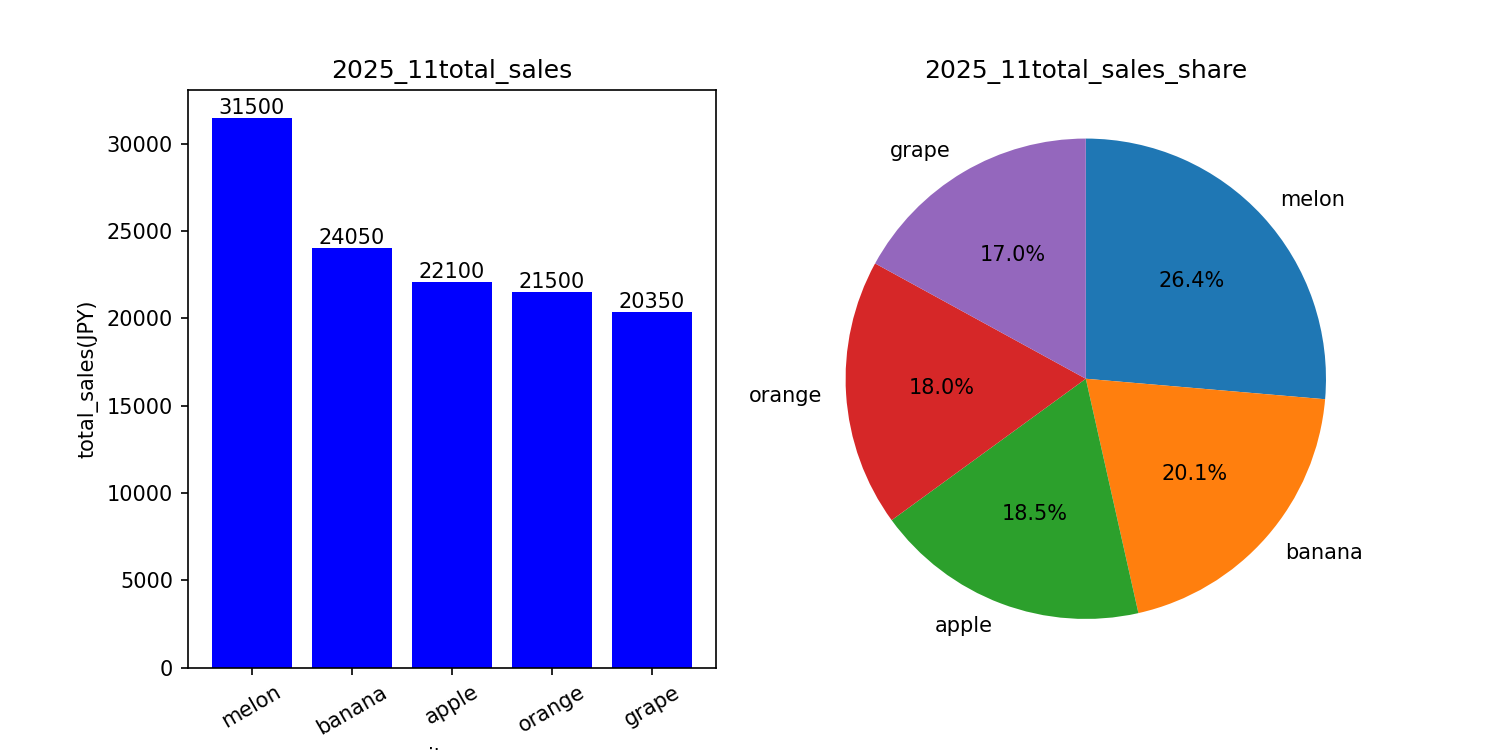
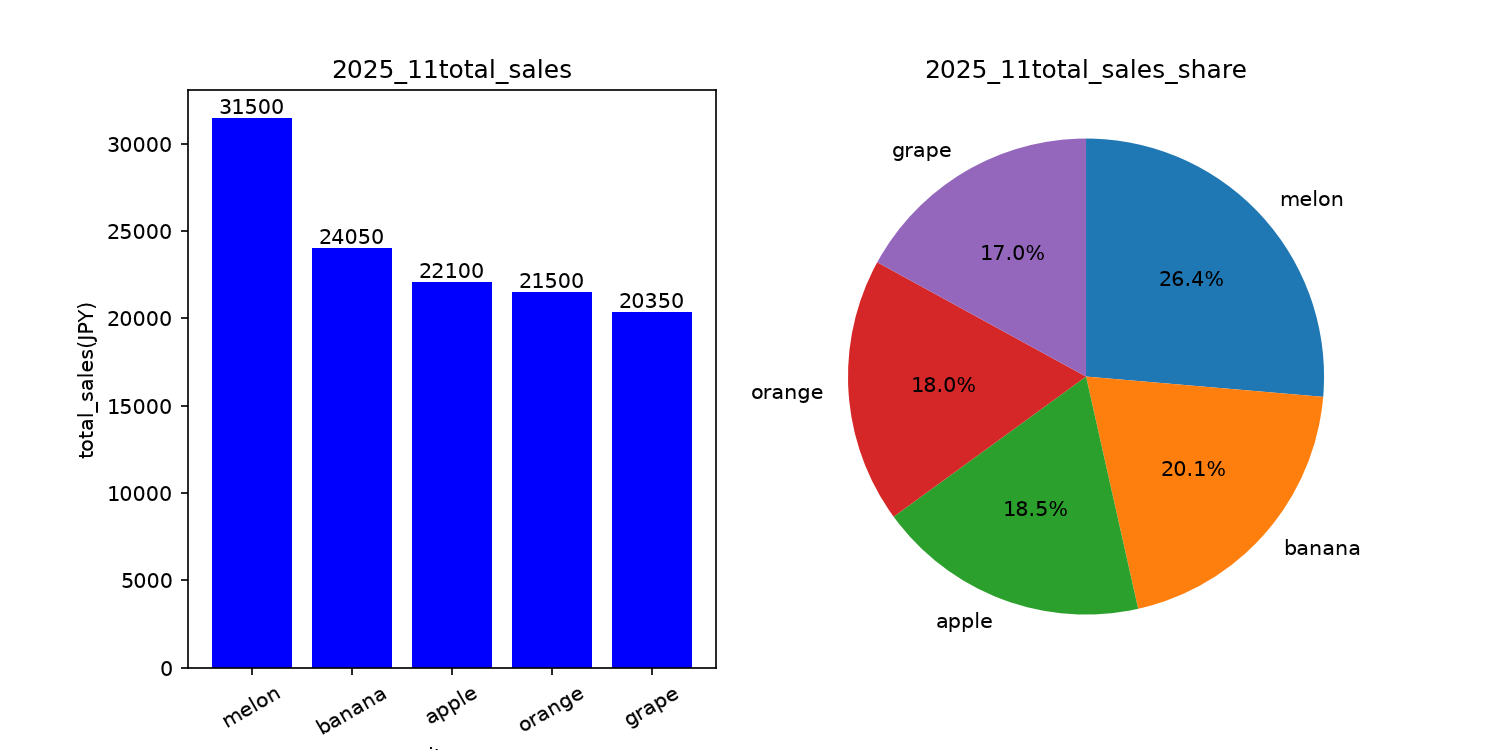
エクセル出力追加、次回chatgptフィードバック

diff --git a/basic_pandas_matplotlib/day11_2.py b/basic_pandas_matplotlib/day11_2.py
@@ -120,4 +120,7 @@ for csv_path in csv_files:
     plt.close(fig)
     (Path(out_dir/ f"comment_{data_label}.txt")).write_text(ai_comment, encoding="utf-8")
     
+    summary_row_df = pd.concat([df, summary_row], ignore_index=False)
+    with pd.ExcelWriter(Path(out_dir / f"repprt_{data_label}.xlsx")) as writer:
+    	summary_row_df.to_excel(writer, index=False)
     print(ai_comment)
